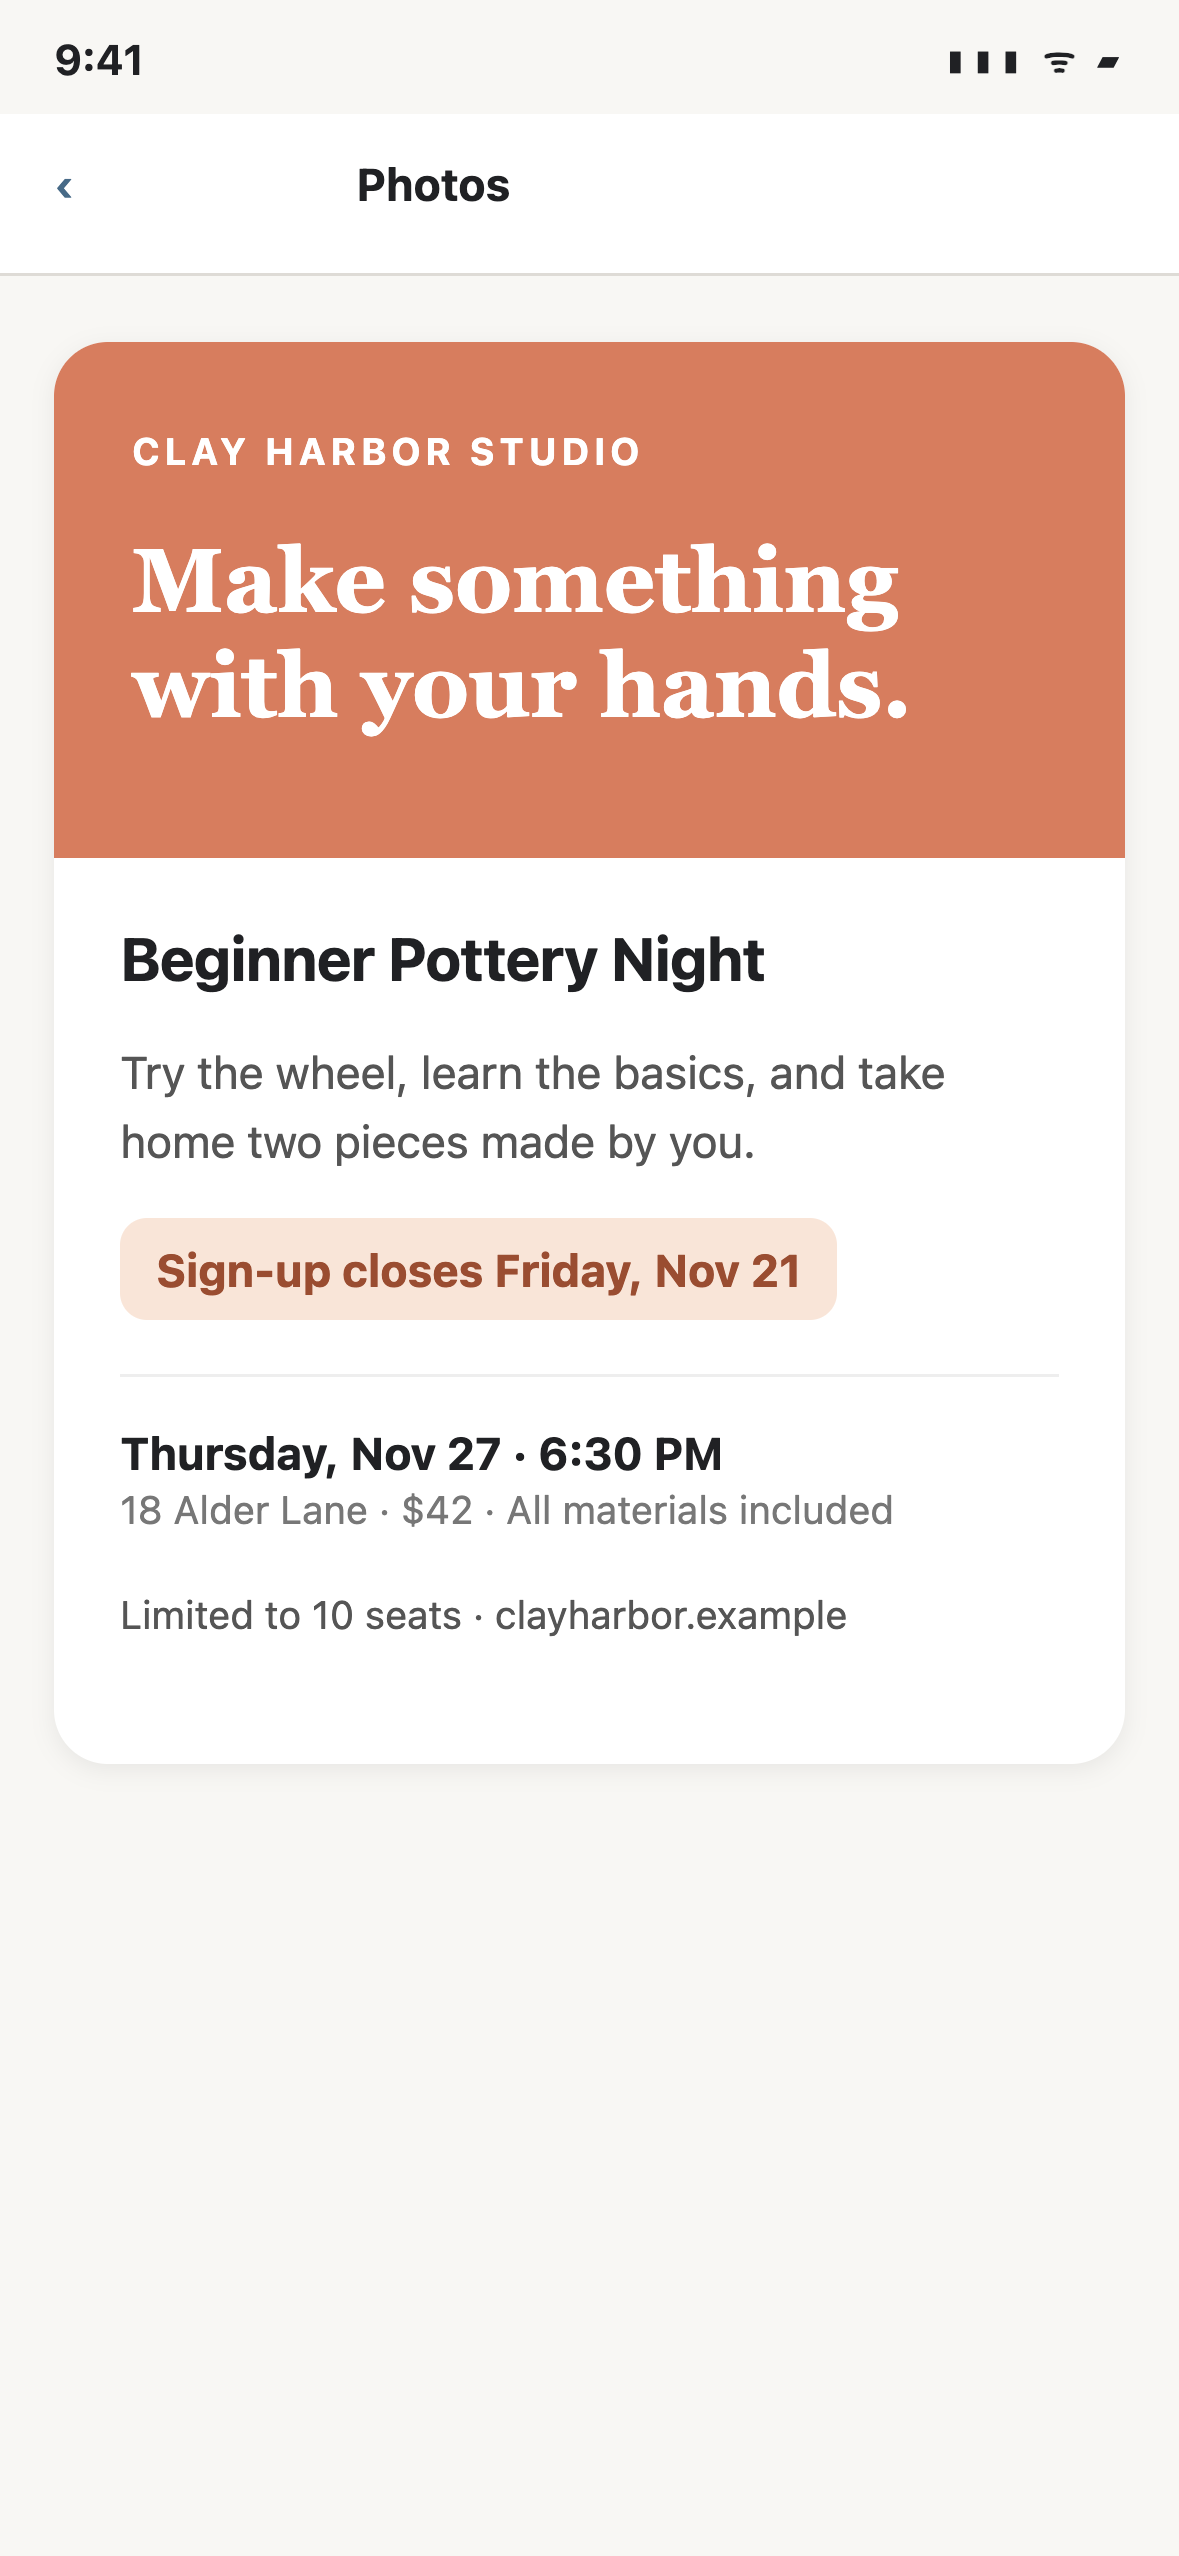
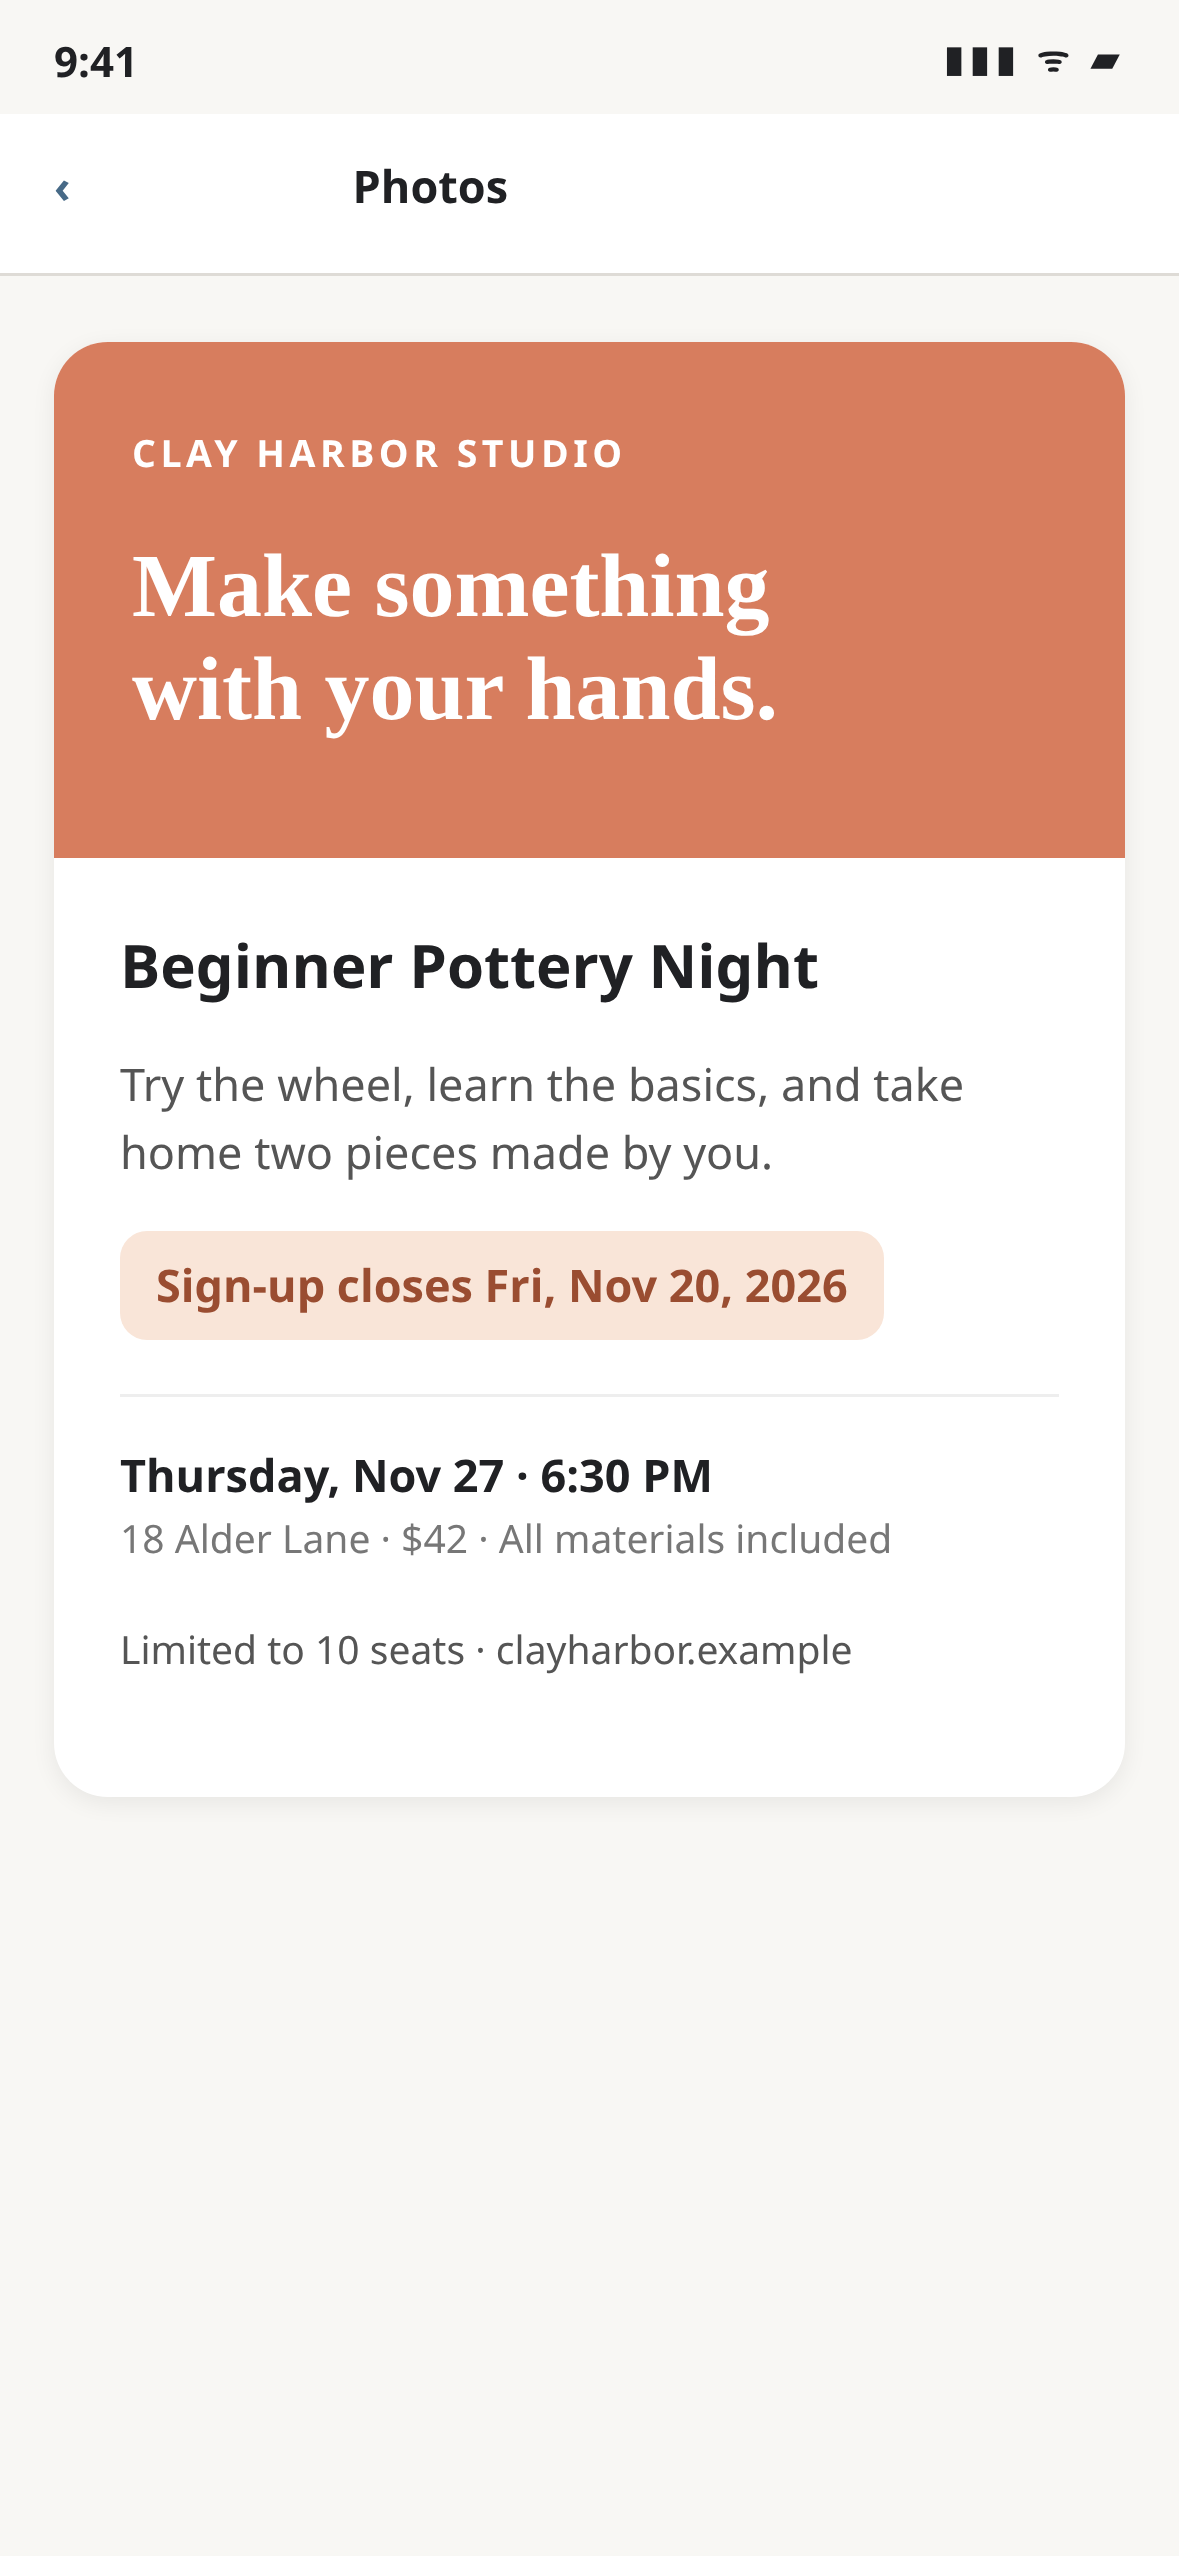
Demo screenshots: flyer sign-up date Fri, Nov 20, 2026; Mom text placeholder reads Message

diff --git a/demo-screenshots/src/01-pottery-flyer.html b/demo-screenshots/src/01-pottery-flyer.html
@@ -1,3 +1,3 @@
 <!doctype html><meta charset="utf-8"><meta name="viewport" content="width=393"><title>Clay Harbor class</title><style>
 *{box-sizing:border-box}body{margin:0;background:#f5f3f0;color:#202124;font:15px system-ui,-apple-system,sans-serif} .s{height:852px;overflow:hidden;background:#f8f7f4}.status{height:38px;padding:11px 18px 0;display:flex;justify-content:space-between;font-weight:650;font-size:14px}.icons{font-size:12px;letter-spacing:2px}.nav{height:54px;padding:14px 18px;border-bottom:1px solid #dedbd6;background:#fff;font-weight:700}.back{color:#476a87;margin-right:94px}.card{margin:22px 18px;background:#fff;border-radius:18px;overflow:hidden;box-shadow:0 2px 8px #00000012}.hero{height:172px;background:#d77d5e;padding:26px;color:#fff}.hero small{letter-spacing:1.5px;font-weight:700}.hero h1{font:700 30px Georgia;margin:18px 0 5px}.copy{padding:22px 22px 26px}.copy h2{font-size:20px;margin:0 0 8px}.copy p{line-height:1.5;color:#555}.pill{display:inline-block;background:#f9e5d8;color:#9a4d31;padding:8px 12px;border-radius:9px;font-weight:700}.line{border-top:1px solid #eee;margin:18px 0;padding-top:16px}.foot{color:#777;font-size:13px}
-</style><div class=s><div class=status><span>9:41</span><span class=icons>▮▮▮ ᯤ  ▰</span></div><div class=nav><span class=back>‹</span>Photos</div><div class=card><div class=hero><small>CLAY HARBOR STUDIO</small><h1>Make something<br>with your hands.</h1></div><div class=copy><h2>Beginner Pottery Night</h2><p>Try the wheel, learn the basics, and take home two pieces made by you.</p><span class=pill>Sign-up closes Friday, Nov 21</span><div class=line><b>Thursday, Nov 27 · 6:30 PM</b><br><span class=foot>18 Alder Lane · $42 · All materials included</span></div><p class=foot>Limited to 10 seats · clayharbor.example</p></div></div></div>
+</style><div class=s><div class=status><span>9:41</span><span class=icons>▮▮▮ ᯤ  ▰</span></div><div class=nav><span class=back>‹</span>Photos</div><div class=card><div class=hero><small>CLAY HARBOR STUDIO</small><h1>Make something<br>with your hands.</h1></div><div class=copy><h2>Beginner Pottery Night</h2><p>Try the wheel, learn the basics, and take home two pieces made by you.</p><span class=pill>Sign-up closes Fri, Nov 20, 2026</span><div class=line><b>Thursday, Nov 27 · 6:30 PM</b><br><span class=foot>18 Alder Lane · $42 · All materials included</span></div><p class=foot>Limited to 10 seats · clayharbor.example</p></div></div></div>

diff --git a/demo-screenshots/src/25-mom-pizza-text.html b/demo-screenshots/src/25-mom-pizza-text.html
@@ -1,3 +1,3 @@
 <!doctype html><meta charset="utf-8"><meta name="viewport" content="width=393"><title>Messages</title><style>
 *{box-sizing:border-box}body{margin:0;background:#fff;color:#15171a;font:15px system-ui,-apple-system,sans-serif}.s{height:852px;overflow:hidden;position:relative}.status{height:38px;padding:11px 18px 0;display:flex;justify-content:space-between;font-weight:650}.icons{font-size:12px;letter-spacing:2px}.head{height:84px;border-bottom:1px solid #ddd;display:flex;flex-direction:column;align-items:center;justify-content:center;position:relative;background:#f7f7f9}.back{position:absolute;left:14px;top:22px;color:#2f7cf6;font-size:30px;line-height:1}.avatar{width:40px;height:40px;border-radius:50%;background:#e8c9b8;color:#7a4a36;display:grid;place-items:center;font-weight:800;font-size:15px}.head small{margin-top:4px;color:#222;font-size:12px}.chat{padding:26px 17px;background:#fff;height:660px}.day{text-align:center;color:#8b8d91;font-size:12px;margin-bottom:18px}.bubble{max-width:290px;background:#e9e9eb;border-radius:20px 20px 20px 5px;padding:11px 16px;line-height:1.35;font-size:17px}.time{font-size:11px;color:#8b8d91;margin:6px 6px}.input{position:absolute;bottom:26px;left:50px;right:18px;border:1px solid #d4d4d7;border-radius:22px;height:38px;padding:9px 16px;color:#aaa}.plus{position:absolute;bottom:26px;left:12px;width:30px;height:30px;border-radius:50%;background:#e9e9eb;color:#777;display:grid;place-items:center;font-size:22px}
-</style><div class=s><div class=status><span>5:02</span><span class=icons>▮▮▮ ᯤ  ▰</span></div><div class=head><span class=back>‹</span><div class=avatar>M</div><small>Mom ›</small></div><div class=chat><div class=day><b>Today</b> 5:02 PM</div><div class=bubble>Can you order pizza for tonight? Dad's working late 🍕</div><div class=time>5:02 PM</div></div><div class=plus>+</div><div class=input>iMessage</div></div>
+</style><div class=s><div class=status><span>5:02</span><span class=icons>▮▮▮ ᯤ  ▰</span></div><div class=head><span class=back>‹</span><div class=avatar>M</div><small>Mom ›</small></div><div class=chat><div class=day><b>Today</b> 5:02 PM</div><div class=bubble>Can you order pizza for tonight? Dad's working late 🍕</div><div class=time>5:02 PM</div></div><div class=plus>+</div><div class=input>Message</div></div>
